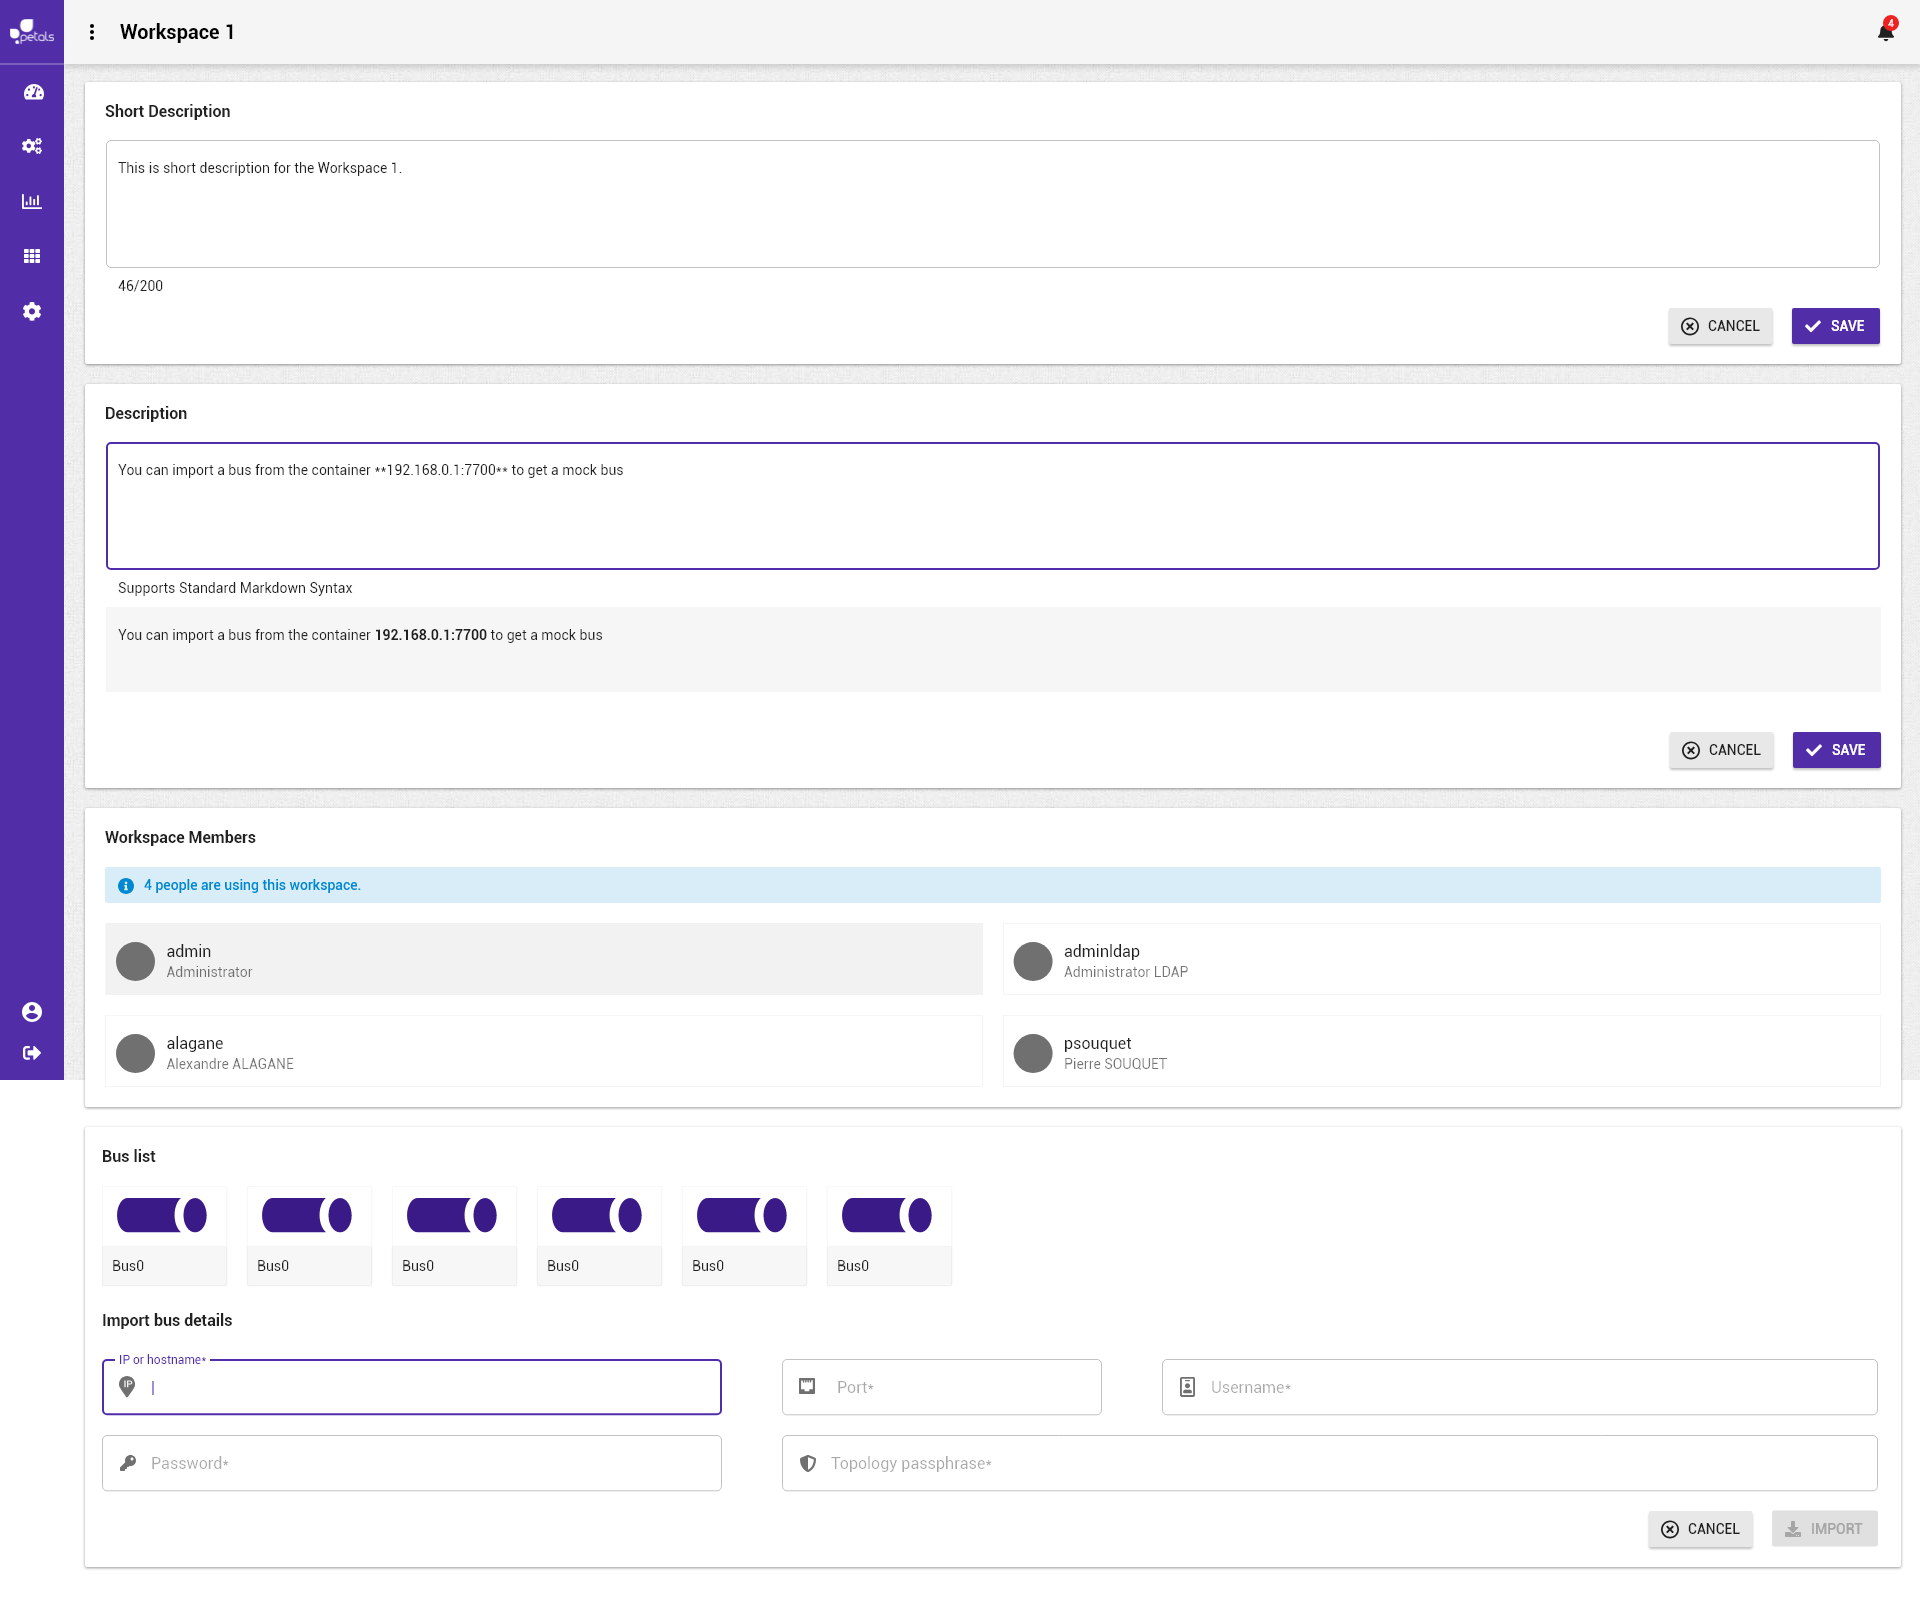
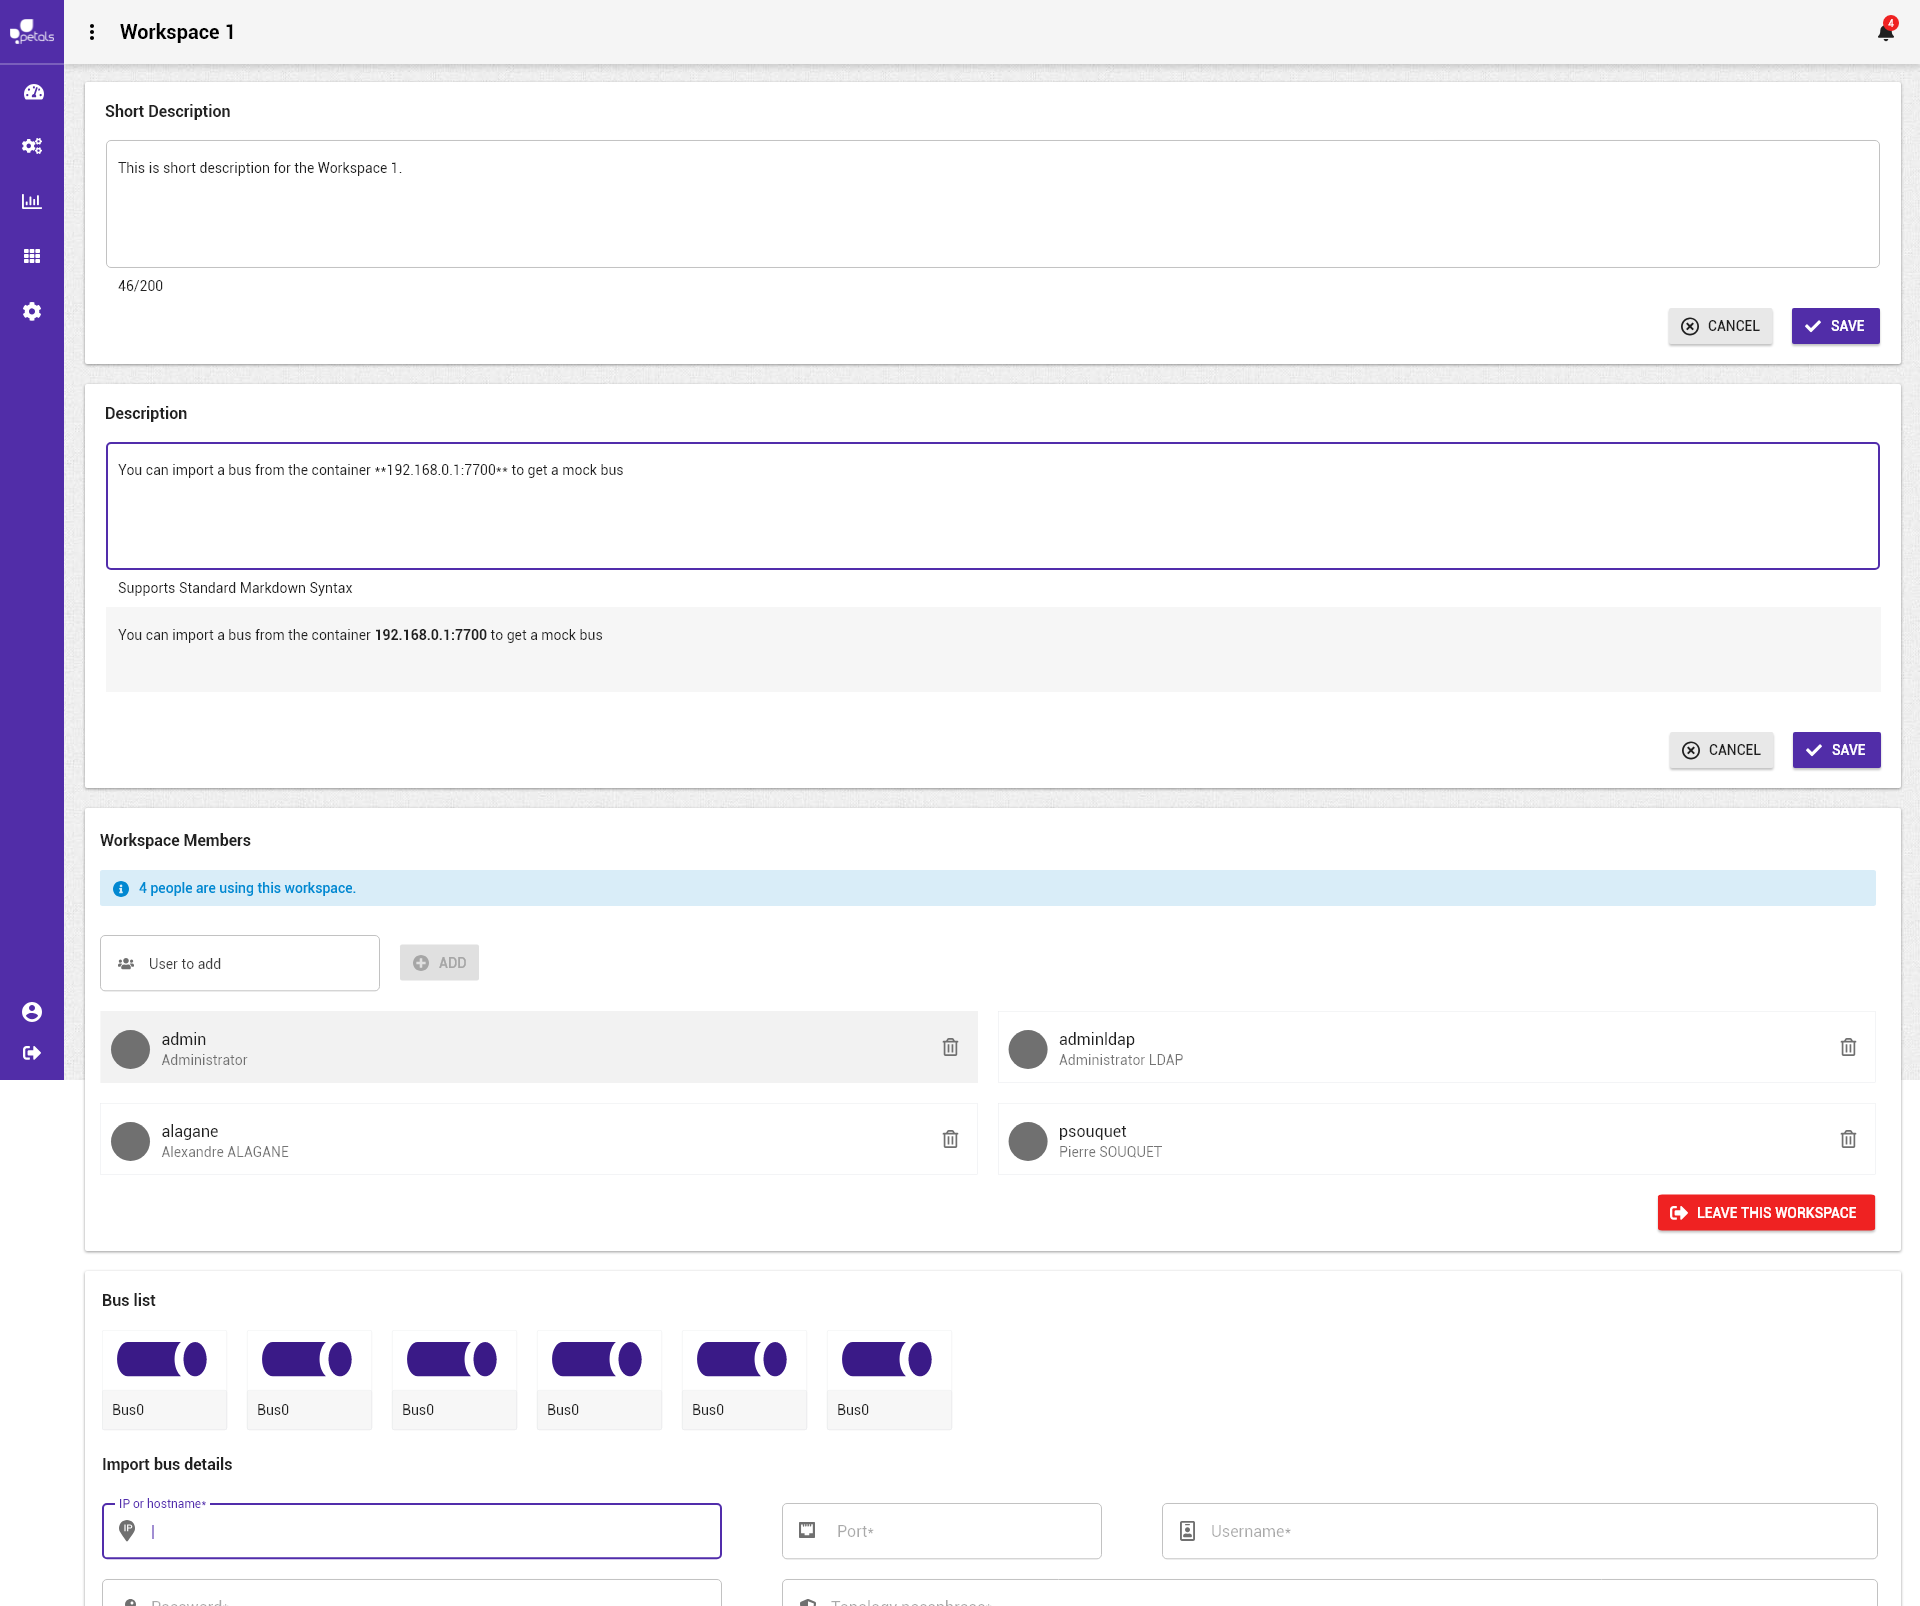
GitBook: [master] 2 pages and 4 assets modified

diff --git a/taches/espace-de-travail/quitter-le-groupe-de-lespace-de-travail.md b/taches/espace-de-travail/quitter-le-groupe-de-lespace-de-travail.md
@@ -12,9 +12,9 @@ Complexité : -
 
 ### Scénario
 
-**Scénario normal:** Albert ne veut plus avoir accès à l'espace de travail **prod.** Depuis la vue détail de l'espace en question, il se retire des membres aillant accès à l'espace. Il est déconnecté de l'espace de travail courant et est redirigé vers la page de sélection d'un espace de travail. Il n'aura plus accès à cette espace de travail.
+**Scénario normal:** Albert ne veut plus avoir accès à l'espace de travail **prod.** Depuis la vue détail de l'espace en question, il se retire des membres aillant accès à l'espace après avoir confirmé. Il est déconnecté de l'espace de travail courant et est redirigé vers la page de sélection d'un espace de travail. Il n'aura plus accès à cette espace de travail.
 
 ### Maquettes
 
-Reste à définir !
+![Message de confirmation pour quitter le groupe de l&apos;espace de travail](../../.gitbook/assets/workspace-overview-leave.png)
 

diff --git a/taches/espace-de-travail/visualiser-un-espace-de-travail.md b/taches/espace-de-travail/visualiser-un-espace-de-travail.md
@@ -29,7 +29,7 @@ Dans un scénario, on ne mentionne pas les actions techniques \(pas de clic, de 
 
 ### Maquettes
 
-![Page d&apos;accueil d&apos;un espace de travail ouvert](../../.gitbook/assets/workspace-overview.png)
+![Page d&apos;accueil d&apos;un espace de travail ouvert](../../.gitbook/assets/workspace-overview%20%281%29.png)
 
 ![Page d&apos;accueil d&apos;un espace de travail ouvert \(&#xE9;dition\)](../../.gitbook/assets/workspace-overview-edit.png)
 
